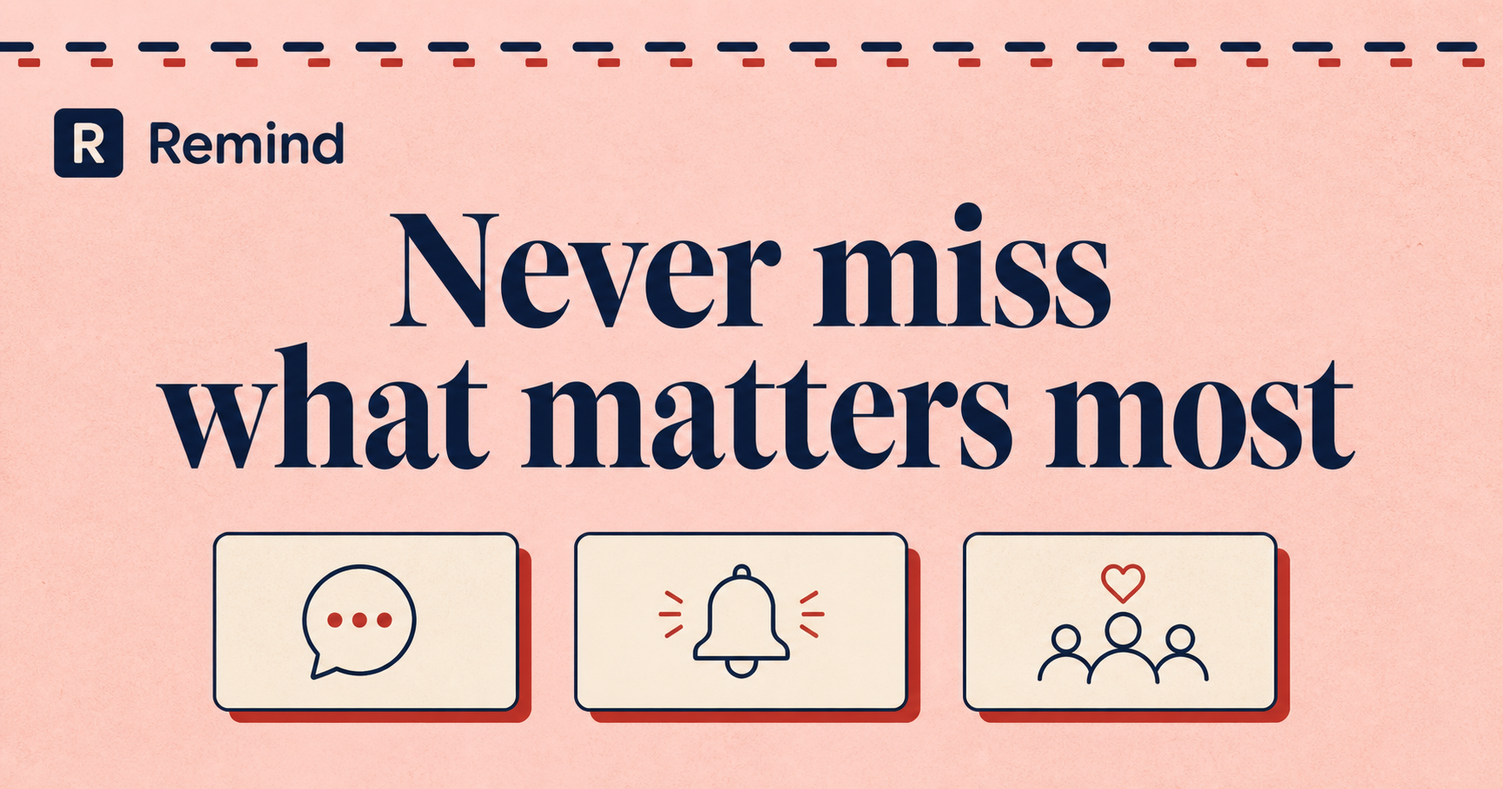
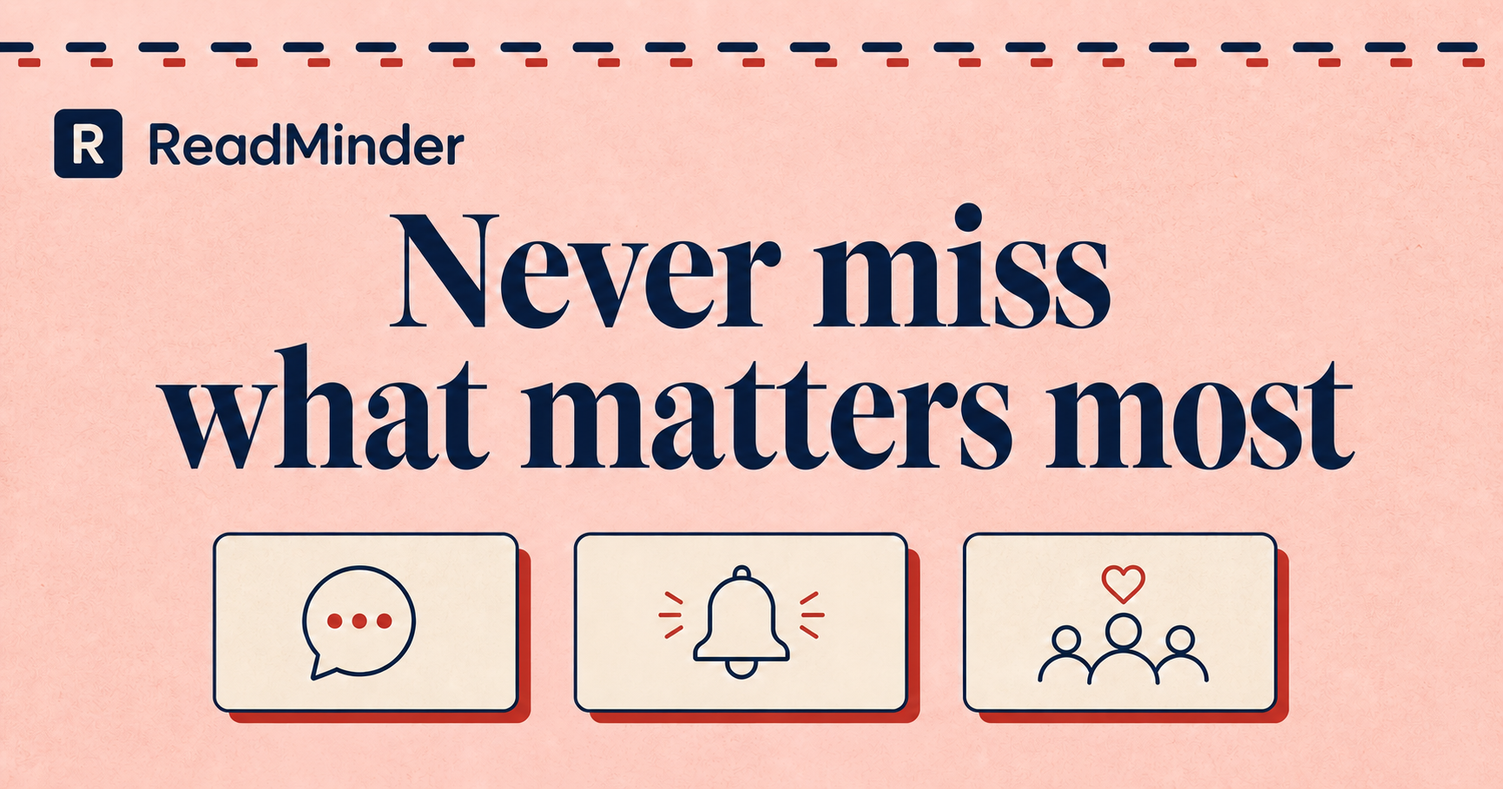
Rename product to ReadMinder

diff --git a/app/page.tsx b/app/page.tsx
@@ -1,209 +1,5 @@
-"use client";
-
-import { useMemo, useState } from "react";
-import RemindExperience from "./remind-experience";
+import ReadMinderExperience from "./remind-experience";
 
 export default function Home() {
-  return <RemindExperience locale="zh" />;
-}
-
-type FontChoice = "sans" | "serif" | "round";
-
-const stepMeta = [
-  ["說出需求", "想自動注意什麼"],
-  ["連接資料", "文件、表格或日曆"],
-  ["確認規則", "條件與通知對象"],
-  ["測試啟用", "讓提醒開始工作"],
-];
-
-const presets = [
-  { label: "合約到期", text: "每天檢查合約資料夾，如果有文件將在 7 天內到期，就用 LINE 提醒負責人。" },
-  { label: "會議待辦", text: "每週五檢查會議紀錄，如果有尚未完成的待辦，就用 LINE 提醒負責人。" },
-  { label: "客訴追蹤", text: "客服紀錄裡出現超過 24 小時還沒回覆的客訴時，立刻用 LINE 通知客服主管。" },
-];
-
-const sources = [
-  { name: "Google Drive", detail: "資料夾與檔案", mark: "D", color: "blue" },
-  { name: "Google 文件", detail: "合約、紀錄、報告", mark: "Doc", color: "blue" },
-  { name: "Google 試算表", detail: "名單與追蹤資料", mark: "▦", color: "green" },
-  { name: "Google 日曆", detail: "活動與截止日期", mark: "31", color: "yellow" },
-  { name: "上傳檔案", detail: "PDF、Word、CSV", mark: "↑", color: "purple" },
-  { name: "網站或 RSS", detail: "定期檢查網頁變化", mark: "⌁", color: "orange" },
-];
-
-function understandIntent(intent: string) {
-  if (intent.includes("會議") || intent.includes("待辦")) {
-    return {
-      watch: "會議紀錄中的待辦事項",
-      condition: "每週五仍標示為「未完成」",
-      recipient: "待辦事項的負責人",
-      schedule: "每週五下午 4:00",
-      source: "會議紀錄資料夾",
-      message: "嗨小安，本週會議紀錄裡還有 2 件待辦尚未完成：\n\n・確認九月活動場地\n・更新報價單\n\n完成後記得回到文件勾選喔！",
-    };
-  }
-  if (intent.includes("客訴") || intent.includes("客服")) {
-    return {
-      watch: "客服紀錄的回覆狀態",
-      condition: "客訴超過 24 小時未回覆",
-      recipient: "客服主管",
-      schedule: "每小時檢查一次",
-      source: "客服追蹤資料",
-      message: "客服主管您好，有 1 筆客訴已超過 24 小時尚未回覆。\n\n案件：#CS-0821\n客戶：林小姐\n等待時間：26 小時\n\n請盡快協助處理。",
-    };
-  }
-  return {
-    watch: "合約文件中的到期日期",
-    condition: "距離到期日少於 7 天",
-    recipient: "文件中標示的負責人",
-    schedule: "每天上午 9:00",
-    source: "合約資料夾",
-    message: "嗨小安，這份合約將在 7 天後到期：\n\n客戶：森木設計\n合約：年度顧問服務\n到期日：8 月 26 日\n\n要續約的話，記得提前聯絡客戶喔！",
-  };
-}
-
-function LegacyHome() {
-  const [step, setStep] = useState(1);
-  const [maxStep, setMaxStep] = useState(1);
-  const [intent, setIntent] = useState(presets[0].text);
-  const [selectedSources, setSelectedSources] = useState(["Google Drive", "Google 文件"]);
-  const [fontChoice, setFontChoice] = useState<FontChoice>("sans");
-  const [appearanceOpen, setAppearanceOpen] = useState(false);
-  const [tested, setTested] = useState(false);
-  const [activated, setActivated] = useState(false);
-  const [toast, setToast] = useState("");
-  const scenario = useMemo(() => understandIntent(intent), [intent]);
-
-  function goTo(next: number) {
-    setStep(next);
-    setMaxStep((current) => Math.max(current, next));
-    setTested(false);
-    window.scrollTo({ top: 0, behavior: "smooth" });
-  }
-
-  function flash(text: string) {
-    setToast(text);
-    window.setTimeout(() => setToast(""), 2300);
-  }
-
-  function toggleSource(name: string) {
-    setSelectedSources((current) => current.includes(name) ? current.filter((item) => item !== name) : [...current, name]);
-  }
-
-  return (
-    <main className={`app-shell font-${fontChoice}`}>
-      {toast && <div className="toast" role="status"><span>✓</span>{toast}</div>}
-      <header className="topbar">
-        <div className="brand" aria-label="叮一下首頁"><span className="brand-mark">叮</span><span>叮一下</span><span className="beta">BETA</span></div>
-        <div className="header-actions">
-          <div className="appearance-wrap">
-            <button className="appearance-button" onClick={() => setAppearanceOpen((open) => !open)}><span>Aa</span> 字體</button>
-            {appearanceOpen && (
-              <div className="appearance-menu">
-                <small>選擇網站字體</small>
-                <button className={fontChoice === "sans" ? "selected" : ""} onClick={() => setFontChoice("sans")}><b>清晰現代</b><span>適合操作介面</span></button>
-                <button className={fontChoice === "serif" ? "selected serif-sample" : "serif-sample"} onClick={() => setFontChoice("serif")}><b>編輯感</b><span>更像雜誌與文件</span></button>
-                <button className={fontChoice === "round" ? "selected round-sample" : "round-sample"} onClick={() => setFontChoice("round")}><b>柔和圓潤</b><span>親切、輕鬆</span></button>
-              </div>
-            )}
-          </div>
-          <button className="help-button" onClick={() => flash("小幫手會陪你完成每一個步驟")}>需要幫忙？</button>
-          <div className="avatar">喬</div>
-        </div>
-      </header>
-
-      <section className="workspace">
-        <div className="workspace-title"><span>建立新的自動提醒</span><small>草稿會自動儲存</small></div>
-        <nav className="steps" aria-label="設定步驟">
-          {stepMeta.map(([title, description], index) => {
-            const number = index + 1;
-            return <button key={title} className={`step ${step === number ? "active" : ""} ${number < step ? "done" : ""}`} disabled={number > maxStep} onClick={() => setStep(number)}><span>{number < step ? "✓" : number}</span><div><b>{title}</b><small>{description}</small></div></button>;
-          })}
-        </nav>
-
-        <div className="main-grid">
-          <section className="setup-panel">
-            {activated ? (
-              <div className="success-screen">
-                <div className="success-mark">✓</div><div className="eyebrow">提醒已啟用</div>
-                <h1>它會自己留意，<br />有事再找你。</h1>
-                <p className="intro">從現在開始，叮一下會依照你設定的規則檢查「{scenario.source}」。符合條件時，才會用 LINE 通知對的人。</p>
-                <div className="success-summary"><span>正在留意</span><b>{scenario.condition}</b><small>下一次檢查：{scenario.schedule}</small></div>
-                <button className="primary-button" onClick={() => { setActivated(false); setStep(1); setMaxStep(1); }}>再建立一個提醒 <span>＋</span></button>
-              </div>
-            ) : step === 1 ? (
-              <>
-                <div className="eyebrow">從一句話開始</div>
-                <h1>你想讓什麼事<br />自動來提醒？</h1>
-                <p className="intro">不用先整理格式。直接說資料在哪裡、什麼情況要注意，以及想通知誰。</p>
-                <div className="intent-box">
-                  <textarea aria-label="描述你的自動提醒" value={intent} onChange={(event) => setIntent(event.target.value)} />
-                  <div><span className="magic-dot">✦</span><span>叮一下會幫你整理成規則</span><button onClick={() => goTo(2)} disabled={!intent.trim()}>幫我設定 <span>→</span></button></div>
-                </div>
-                <div className="preset-section"><span>不知道怎麼說？選一個例子</span><div>{presets.map((preset) => <button key={preset.label} className={intent === preset.text ? "selected" : ""} onClick={() => setIntent(preset.text)}>{preset.label}</button>)}</div></div>
-              </>
-            ) : step === 2 ? (
-              <>
-                <div className="eyebrow">STEP 2 OF 4</div>
-                <h1 className="compact-title">資料現在<br />放在哪裡？</h1>
-                <p className="intro compact-intro">可以同時選擇不同來源。正式啟用時，我們才會請你登入授權。</p>
-                <div className="source-grid">
-                  {sources.map((source) => {
-                    const selected = selectedSources.includes(source.name);
-                    return <button key={source.name} className={`source-card ${selected ? "selected" : ""}`} onClick={() => toggleSource(source.name)}><span className={`source-mark ${source.color}`}>{source.mark}</span><div><b>{source.name}</b><small>{source.detail}</small></div><i>{selected ? "✓" : "+"}</i></button>;
-                  })}
-                </div>
-                <div className="privacy-note"><span>◉</span><p><b>你可以只授權特定檔案或資料夾</b><br />其他資料我們看不到，也不會拿來訓練公開模型。</p></div>
-                <div className="button-row"><button className="secondary-button" onClick={() => setStep(1)}>← 返回</button><button className="primary-button" disabled={!selectedSources.length} onClick={() => { flash("已讀懂你的要求"); goTo(3); }}>讓叮一下讀懂資料 <span>✦</span></button></div>
-              </>
-            ) : step === 3 ? (
-              <>
-                <div className="eyebrow">我們這樣理解你的要求</div>
-                <h1 className="compact-title">確認一下，<br />有沒有會錯意？</h1>
-                <div className="rule-builder">
-                  <label><span className="rule-number">1</span><div><small>留意什麼</small><input defaultValue={scenario.watch} /></div></label>
-                  <label><span className="rule-number">2</span><div><small>什麼情況要提醒</small><input defaultValue={scenario.condition} /></div></label>
-                  <label><span className="rule-number">3</span><div><small>通知誰</small><input defaultValue={scenario.recipient} /></div></label>
-                  <label><span className="rule-number">4</span><div><small>多久檢查一次</small><select defaultValue={scenario.schedule}><option>{scenario.schedule}</option><option>每天上午 9:00</option><option>每小時檢查一次</option><option>資料變動時立即檢查</option></select></div></label>
-                </div>
-                <div className="ai-note"><span>✦</span><p><b>還不確定文件格式也沒關係</b><br />連接資料後，我們會先用 3 筆範例測試，找不到欄位時再請你確認。</p></div>
-                <div className="button-row"><button className="secondary-button" onClick={() => setStep(2)}>← 返回</button><button className="primary-button" onClick={() => goTo(4)}>確認並預覽提醒 <span>→</span></button></div>
-              </>
-            ) : (
-              <>
-                <div className="eyebrow">STEP 4 OF 4</div>
-                <h1 className="compact-title">先傳給自己<br />確認一次</h1>
-                <p className="intro compact-intro">右邊是根據範例資料產生的提醒。正式啟用前，不會傳給其他人。</p>
-                <div className="test-card"><div className="test-icon">L</div><div><b>LINE 測試訊息</b><small>收件人：Joanna 的 LINE</small></div>{tested ? <span className="test-success">已送達 ✓</span> : <button onClick={() => { setTested(true); flash("測試訊息已送達 LINE"); }}>傳送測試</button>}</div>
-                <div className="summary-list"><div><span>資料來源</span><b>{selectedSources.slice(0, 2).join(" ＋ ")}</b></div><div><span>觸發條件</span><b>{scenario.condition}</b></div><div><span>檢查頻率</span><b>{scenario.schedule}</b></div></div>
-                {!tested && <p className="test-hint">請先傳送測試，確認文字與通知對象都正確。</p>}
-                <div className="button-row"><button className="secondary-button" onClick={() => setStep(3)}>← 修改規則</button><button className="primary-button activate-button" disabled={!tested} onClick={() => setActivated(true)}>啟用自動提醒 <span>✦</span></button></div>
-              </>
-            )}
-          </section>
-
-          <aside className="preview-panel">
-            <div className="preview-head"><div><span className="live-dot" />{step === 4 ? "LINE 訊息預覽" : "提醒藍圖"}</div><span>LIVE</span></div>
-            {step === 4 || activated ? (
-              <div className="phone">
-                <div className="phone-bar"><span>9:41</span><b>叮一下</b><span>•••</span></div><div className="chat-date">今天 上午 9:00</div>
-                <div className="message-row"><div className="bot-avatar">叮</div><div><div className="bot-name">叮一下</div><div className="bubble">{scenario.message.split("\n").map((line, index) => <span key={index}>{line || <>&nbsp;</>}<br /></span>)}</div><div className="read-time">已讀　09:01</div></div></div>
-                {tested && <div className="delivery-badge">✓ 測試訊息已送達</div>}
-              </div>
-            ) : (
-              <div className="blueprint">
-                <div className="blueprint-source"><span className="folder-shape">⌑</span><div><small>從這裡讀取</small><b>{step === 1 ? "你的文件或資料" : selectedSources.slice(0, 2).join(" ＋ ")}</b></div></div>
-                <span className="flow-arrow">↓</span>
-                <div className="agent-card"><span>✦</span><div><small>叮一下會持續留意</small><b>{scenario.condition}</b></div><i className="pulse" /></div>
-                <span className="flow-arrow">↓</span>
-                <div className="blueprint-source line-source"><span>L</span><div><small>有狀況才通知</small><b>{scenario.recipient}</b></div></div>
-                <div className="blueprint-caption"><b>你不用一直打開資料檢查。</b><br />沒發生事情時，叮一下會保持安靜。</div>
-              </div>
-            )}
-            <div className="preview-note"><span className="spark">✦</span><p><b>不限試算表，也不要求固定格式</b><br />文件內容、日期、狀態與文字變化都能成為提醒條件。</p></div>
-          </aside>
-        </div>
-      </section>
-    </main>
-  );
+  return <ReadMinderExperience locale="zh" />;
 }

diff --git a/app/remind-experience.tsx b/app/remind-experience.tsx
@@ -9,9 +9,9 @@ type Option = { label: string; icon: string; note?: string };
 
 const content = {
   zh: {
-    lang: "EN", langHref: "/en", homeLabel: "Remind 首頁", login: "登入",
+    lang: "EN", langHref: "/en", homeLabel: "ReadMinder 首頁", login: "登入",
     badge: "✦ 個人化提醒設定 ✦", heroTop: "重要的事，", heroEm: "不再錯過",
-    intro: "回答幾個問題、提供資料，Remind 會在兩分鐘內替你建立專屬提醒系統。",
+    intro: "回答幾個問題、提供資料，ReadMinder 會讀懂文件中的重要日期，替你建立專屬提醒。",
     cta: "建立我的提醒", free: "免費 · 不需註冊",
     features: [
       ["匯入任何來源", "PDF、試算表、文件，或直接貼上資料連結。", "↗"],
@@ -19,7 +19,7 @@ const content = {
       ["送到習慣的地方", "LINE、Email、Slack、行事曆，選你最常看的。", "→"],
     ],
     subtitle: "你的個人提醒建立助手", setup: "設定中", complete: "完成",
-    hello: "嗨！我是 Remind，你的個人提醒建立助手 👋",
+    hello: "嗨！我是 ReadMinder，你的文件提醒建立助手 👋",
     guide: "我會帶你快速完成設定，只要幾個步驟，提醒就準備好了。",
     topicQuestion: "你想針對什麼主題建立提醒？",
     sourceQuestion: "收到！你有相關的文件或資料來源嗎？上傳檔案，或直接貼上連結就可以。",
@@ -32,8 +32,8 @@ const content = {
     placeholder: "例如：合約快到期、待辦還沒完成……", send: "送出", user: "你",
     loginSoon: "登入功能即將開放", prototype: "這是互動原型：下一版會在這裡連接帳號並啟用提醒。",
     sample: "試用範例合約", localOnly: "目前在你的瀏覽器內分析，不會上傳文件內容。",
-    analysisTitle: "Remind 讀到這些期限線索", datesFound: "辨識到的日期", keywordsFound: "期限關鍵字",
-    noDate: "目前沒有找到明確日期，你仍可以繼續建立提醒。", limited: "文件很長，Remind 已分析前段內容。建議確認下方日期是否完整。",
+    analysisTitle: "ReadMinder 讀到這些期限線索", datesFound: "辨識到的日期", keywordsFound: "期限關鍵字",
+    noDate: "目前沒有找到明確日期，你仍可以繼續建立提醒。", limited: "文件很長，ReadMinder 已分析前段內容。建議確認下方日期是否完整。",
     analyzing: "正在讀取文件…", readErrors: {
       "file-too-large": "檔案超過 10 MB，請縮小後再試一次。", unsupported: "目前不支援這個格式；舊版 .doc 請先另存成 .docx。",
       empty: "沒有讀到文字。若是掃描型 PDF，下一版加入 OCR 後才能辨識。", encrypted: "目前無法讀取有密碼的 PDF。", "read-failed": "文件讀取失敗，請確認檔案沒有損毀後再試一次。",
@@ -41,9 +41,9 @@ const content = {
     remindBefore: "提前多久提醒", days: "天", saved: "已儲存在這台裝置 ✓", savedNote: "這筆提醒已保存在瀏覽器；下一階段會接上帳號、排程與真正通知。",
   },
   en: {
-    lang: "中文", langHref: "/", homeLabel: "Remind home", login: "Log in",
+    lang: "中文", langHref: "/", homeLabel: "ReadMinder home", login: "Log in",
     badge: "✦ PERSONALISED REMINDER SETUP ✦", heroTop: "Never miss what", heroEm: "matters most",
-    intro: "Answer a few questions, upload your data, and Remind builds a tailored reminder system — in under two minutes.",
+    intro: "Answer a few questions, upload your data, and ReadMinder turns important dates into tailored reminders.",
     cta: "Build my reminder", free: "Free · No sign-up needed",
     features: [
       ["Import any source", "Upload a PDF or spreadsheet, or simply paste a link.", "↗"],
@@ -51,7 +51,7 @@ const content = {
       ["Delivered your way", "Send it to LINE, email, Slack, or your calendar.", "→"],
     ],
     subtitle: "Your personal reminder builder", setup: "SETUP", complete: "COMPLETE",
-    hello: "Hi there! I'm Remind, your personal reminder builder. 👋",
+    hello: "Hi there! I'm ReadMinder, your document-aware reminder builder. 👋",
     guide: "I'll guide you through a quick setup — a few steps and your reminders will be ready.",
     topicQuestion: "What's the topic you'd like to build reminders around?",
     sourceQuestion: "Great. Do you have a document or data source? Upload a file or paste a link.",
@@ -64,8 +64,8 @@ const content = {
     placeholder: "Type your message...", send: "Send", user: "You",
     loginSoon: "Login is coming soon", prototype: "This is an interactive prototype. Account connection will be added next.",
     sample: "Try a sample contract", localOnly: "For now, analysis happens in your browser. The document is not uploaded.",
-    analysisTitle: "Remind found these deadline signals", datesFound: "Dates found", keywordsFound: "Deadline keywords",
-    noDate: "No explicit date was found. You can still continue building the reminder.", limited: "This is a long document, so Remind analysed its first section. Check that the dates below are complete.",
+    analysisTitle: "ReadMinder found these deadline signals", datesFound: "Dates found", keywordsFound: "Deadline keywords",
+    noDate: "No explicit date was found. You can still continue building the reminder.", limited: "This is a long document, so ReadMinder analysed its first section. Check that the dates below are complete.",
     analyzing: "Reading document…", readErrors: {
       "file-too-large": "This file is over 10 MB. Please reduce its size and try again.", unsupported: "This format is not supported yet. Save legacy .doc files as .docx and try again.",
       empty: "No text was found. Scanned PDFs will need OCR support in a future version.", encrypted: "Password-protected PDFs cannot be read yet.", "read-failed": "The document could not be read. Check that it is not damaged and try again.",
@@ -90,7 +90,7 @@ const deliveries: Record<Locale, Option[]> = {
   en: [{ label: "LINE", icon: "L" }, { label: "Email", icon: "@" }, { label: "Push notification", icon: "◉" }, { label: "Slack", icon: "#" }, { label: "Google Calendar", icon: "31" }],
 };
 
-export default function RemindExperience({ locale = "zh" }: { locale?: Locale }) {
+export default function ReadMinderExperience({ locale = "zh" }: { locale?: Locale }) {
   const t = content[locale];
   const [screen, setScreen] = useState<"landing" | "builder">("landing");
   const [step, setStep] = useState(1);
@@ -135,15 +135,15 @@ export default function RemindExperience({ locale = "zh" }: { locale?: Locale })
   }
   function saveReminder() {
     const reminder = { id: crypto.randomUUID(), createdAt: new Date().toISOString(), topic, source, format, delivery, leadDays, analysis };
-    const current = JSON.parse(window.localStorage.getItem("remind.reminders") ?? "[]");
-    window.localStorage.setItem("remind.reminders", JSON.stringify([...current, reminder]));
+    const current = JSON.parse(window.localStorage.getItem("readminder.reminders") ?? window.localStorage.getItem("remind.reminders") ?? "[]");
+    window.localStorage.setItem("readminder.reminders", JSON.stringify([...current, reminder]));
     setSaved(true);
   }
   function reset() { setStep(1); setTopic(""); setDraft(""); setSource(""); setLink(""); setFormat(""); setDelivery(""); setAnalysis(null); setAnalysisError(""); setLeadDays(7); setSaved(false); }
 
   if (screen === "landing") return <main className={`f-landing f-${locale}`}>
     <header className="f-landing-header">
-      <a className="f-brand" href="#top" aria-label={t.homeLabel}><span className="f-brand-mark">R</span><span>Remind</span></a>
+      <a className="f-brand" href="#top" aria-label={t.homeLabel}><span className="f-brand-mark">R</span><span>ReadMinder</span></a>
       <div className="f-header-actions"><a href={t.langHref}>{t.lang}</a><button className="f-header-cta" onClick={() => window.alert(t.loginSoon)}>{t.login} <span>→</span></button></div>
     </header>
     <div className="f-stitch" aria-hidden="true">{Array.from({ length: 14 }).map((_, i) => <span key={i} />)}</div>
@@ -157,7 +157,7 @@ export default function RemindExperience({ locale = "zh" }: { locale?: Locale })
 
   return <main className={`f-builder f-${locale}`}>
     <header className="f-builder-header">
-      <button className="f-brand f-brand-button" onClick={() => setScreen("landing")} aria-label={locale === "en" ? "Back to home" : "回到首頁"}><span className="f-brand-mark">R</span><span className="f-brand-copy"><b>Remind</b><small>{t.subtitle}</small></span></button>
+      <button className="f-brand f-brand-button" onClick={() => setScreen("landing")} aria-label={locale === "en" ? "Back to home" : "回到首頁"}><span className="f-brand-mark">R</span><span className="f-brand-copy"><b>ReadMinder</b><small>{t.subtitle}</small></span></button>
       <div className="f-builder-actions"><a href={t.langHref}>{t.lang}</a><button onClick={() => window.alert(t.loginSoon)}>{t.login}</button><span className="f-setup-tag">{t.setup}</span></div>
     </header>
     <section className="f-chat-card" aria-live="polite">

diff --git a/app/layout.tsx b/app/layout.tsx
@@ -3,7 +3,7 @@ import { headers } from "next/headers";
 import "./globals.css";
 import "./figma.css";
 
-const title = "Remind｜重要的事，不再錯過";
+const title = "ReadMinder｜讀懂重要日期，準時提醒你";
 const description = "針對文件、表格、日曆或網站資料，用幾個簡單問題建立自動提醒。";
 
 export async function generateMetadata(): Promise<Metadata> {
@@ -16,7 +16,7 @@ export async function generateMetadata(): Promise<Metadata> {
     title,
     description,
     icons: { icon: "/favicon.svg", shortcut: "/favicon.svg" },
-    openGraph: { title, description, images: [{ url: image, width: 1733, height: 909 }] },
+    openGraph: { title, description, images: [{ url: image, width: 1731, height: 909 }] },
     twitter: { card: "summary_large_image", title, description, images: [image] },
   };
 }

diff --git a/app/figma.css b/app/figma.css
@@ -93,7 +93,7 @@
   .f-analysis-card{margin-left:0;padding:16px}.f-analysis-head h3{font-size:17px}.f-signal-list>div{grid-template-columns:1fr;gap:4px}.f-signal-list p{white-space:normal}.f-final-rule{grid-template-columns:1fr auto}.f-final-rule em{grid-column:1/-1}
 }
 
-/* Remind v4: larger type, rounded Chinese, and Figma-matched proportions */
+/* ReadMinder: larger type, rounded Chinese, and Figma-matched proportions */
 .f-landing,.f-builder { font-family:ui-rounded,"SF Pro Rounded","Arial Rounded MT Bold","Yuanti TC","PingFang TC","Microsoft JhengHei",sans-serif; font-size:16px; }
 .f-en { font-family:"Avenir Next","Trebuchet MS",Arial,sans-serif; }
 .f-header-actions,.f-builder-actions { display:flex; align-items:center; gap:14px; }

diff --git a/app/en/layout.tsx b/app/en/layout.tsx
@@ -1,14 +1,14 @@
 import type { Metadata } from "next";
 
 export const metadata: Metadata = {
-  title: "Remind | Never miss what matters most",
+  title: "ReadMinder | Never miss what matters most",
   description: "Answer a few questions, upload your data, and build a tailored reminder system in under two minutes.",
   openGraph: {
-    title: "Remind | Never miss what matters most",
+    title: "ReadMinder | Never miss what matters most",
     description: "Build a tailored reminder system in under two minutes.",
   },
   twitter: {
-    title: "Remind | Never miss what matters most",
+    title: "ReadMinder | Never miss what matters most",
     description: "Build a tailored reminder system in under two minutes.",
   },
 };

diff --git a/app/en/page.tsx b/app/en/page.tsx
@@ -1,5 +1,5 @@
-import RemindExperience from "../remind-experience";
+import ReadMinderExperience from "../remind-experience";
 
 export default function EnglishPage() {
-  return <RemindExperience locale="en" />;
+  return <ReadMinderExperience locale="en" />;
 }
